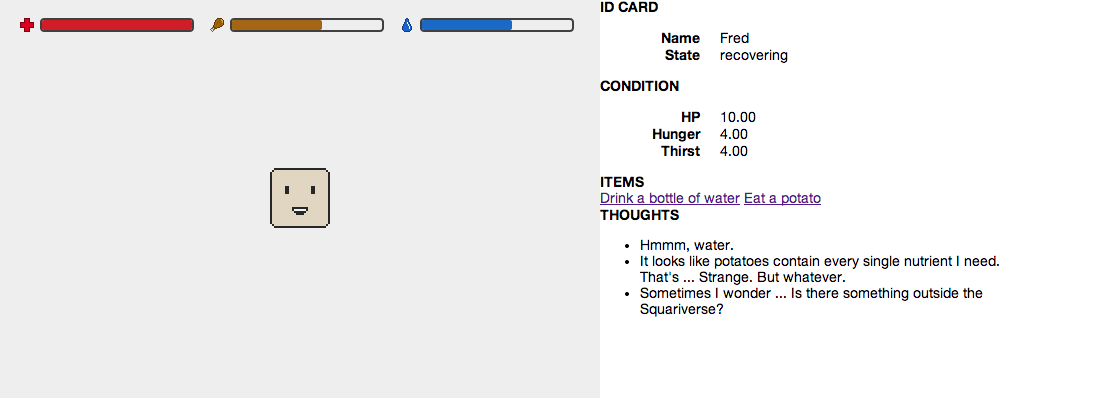
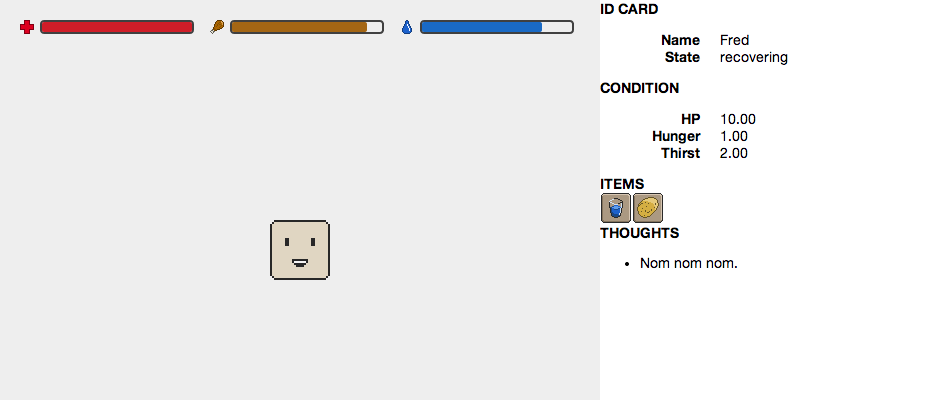
* Created and added assets for items (only water and potato for now) * Updated CSS to render items

diff --git a/style.css b/style.css
@@ -31,6 +31,37 @@ h1, h2, h3, h4, h5, h6 {
 	padding: 0;
 }
 
+.items-container {
+	overflow: hidden;
+}
+
+.items-container .item {
+	display: block;
+	width: 32px;
+	height: 32px;
+	float: left;
+	background: url('sprites/item-background.png') no-repeat top left;
+	overflow: hidden;
+}
+
+.items-container .item:active {
+	background-image: url('sprites/item-background-active.png');
+}
+
+.items-container .item span {
+	display: block;
+	height: 32px;
+	width: 32px;
+	background: no-repeat top left;
+}
+
+.items-container .item:active span {
+	margin-top: 1px;
+}
+
+.items-container .item-potato span { background-image: url('sprites/item-potato.png'); }
+.items-container .item-water span { background-image: url('sprites/item-water.png'); }
+
 .screen {
 	width: 600px;
 	height: 400px;

diff --git a/index.html b/index.html
@@ -109,8 +109,10 @@
 		</dl>
 
 		<h4>Items</h4>
-		<a href="#" data-use-item="water">Drink a bottle of water</a>
-		<a href="#" data-use-item="potato">Eat a potato</a>
+		<div class="items-container">
+			<a href="#" data-use-item="water" class="item item-water" title="A glass of water"><span></span></a>
+			<a href="#" data-use-item="potato" class="item item-potato" title="A potato"><span></span></a>
+		</div>
 
 		<h4>Thoughts</h4>
 		<ul class="thoughts"></ul>
